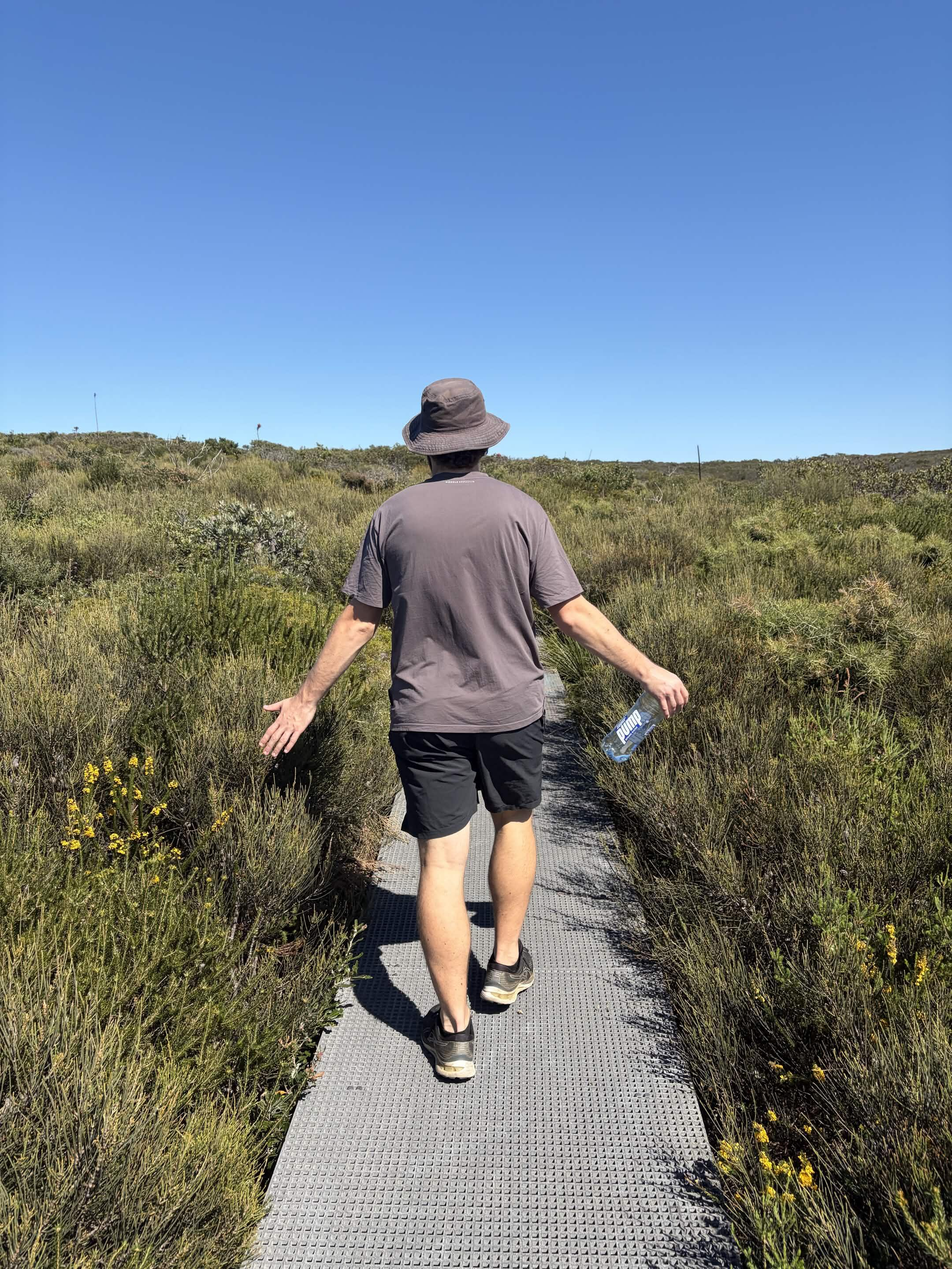
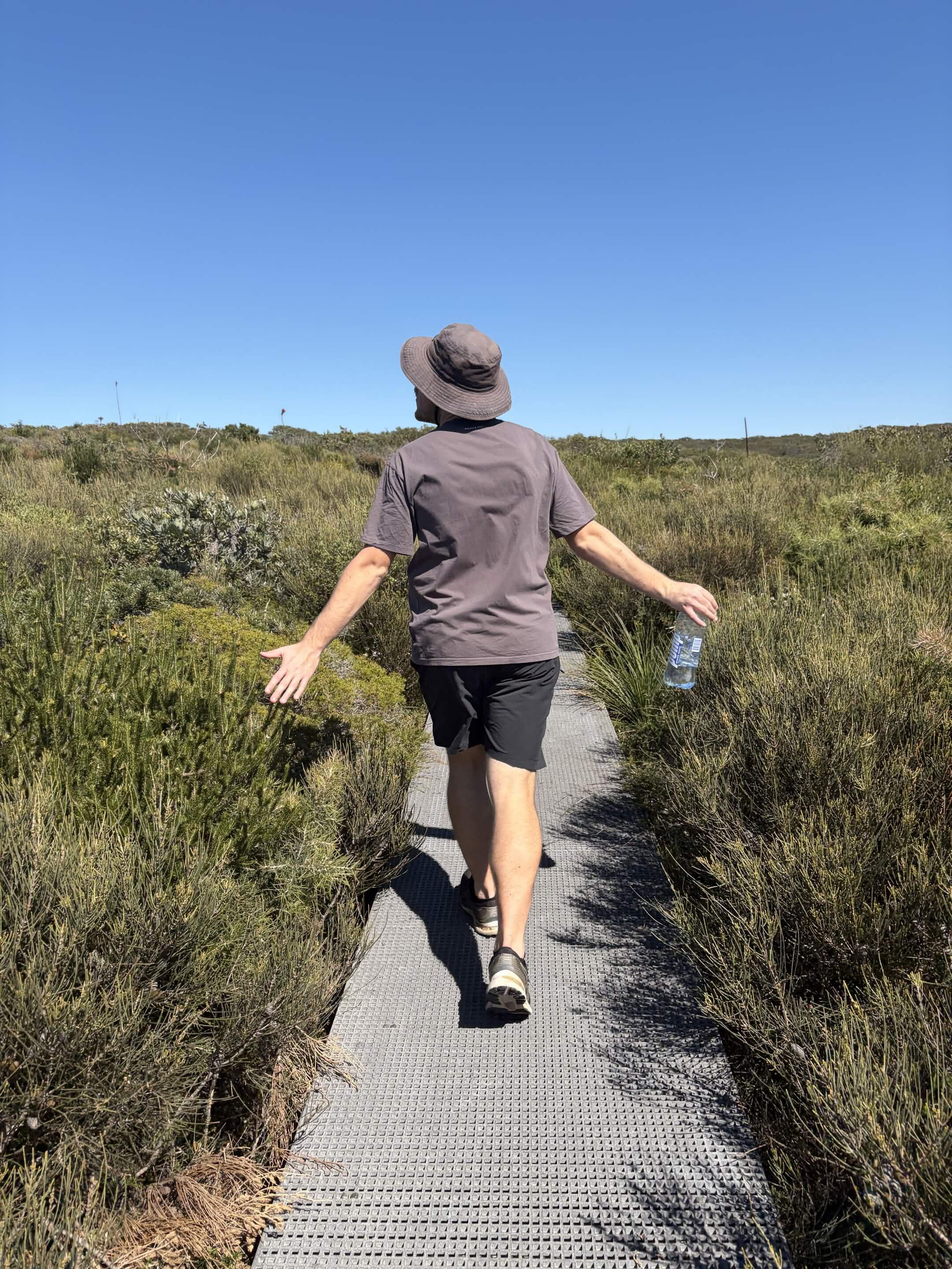
update content, support portait images in project

diff --git a/src/content/blog/2026-curra-moors-track.md b/src/content/blog/2026-curra-moors-track.md
@@ -4,4 +4,16 @@ description: "11km big walk"
 date: "20 Sep 2026"
 thumbnail: "./images/2026-curra-moors-track/image4.jpg"
 tags: ["walk", "outdoors", "sport"]
+links: ["https://www.nationalparks.nsw.gov.au/things-to-do/walking-tracks/curra-moors-loop-track"]
+gallery: [
+    "images/2026-curra-moors-track/image1.jpg",
+    "images/2026-curra-moors-track/image2.jpg",
+    "images/2026-curra-moors-track/image3.jpg",
+    "images/2026-curra-moors-track/image4.jpg",
+    "images/2026-curra-moors-track/image5.jpg",
+    "images/2026-curra-moors-track/image6.jpg",
+    "images/2026-curra-moors-track/image7.jpg",
+    "images/2026-curra-moors-track/image8.jpg",
+    "images/2026-curra-moors-track/image9.jpg",
+]
 ---

diff --git a/src/content/blog/2026-grand-canyon-track.md b/src/content/blog/2026-grand-canyon-track.md
@@ -4,4 +4,12 @@ description: "6km big walk"
 date: "30 Aug 2026"
 thumbnail: "./images/2026-grand-canyon-track/thumbnail.jpg"
 tags: ["walk", "outdoors", "sport"]
+links: ["https://www.nationalparks.nsw.gov.au/things-to-do/walking-tracks/grand-canyon-track"]
+gallery: [
+    "images/2026-grand-canyon-track/image1.jpg",
+    "images/2026-grand-canyon-track/image2.jpg",
+    "images/2026-grand-canyon-track/image3.jpg",
+    "images/2026-grand-canyon-track/image4.jpg",
+    "images/2026-grand-canyon-track/image5.jpg",
+]
 ---

diff --git a/src/content/blog/2026-city2surf.md b/src/content/blog/2026-city2surf.md
@@ -4,4 +4,13 @@ description: "My running debut 15km + heartbreak hill"
 date: "9 Aug 2026"
 thumbnail: "./images/2026-city2surf/thumbnail.jpg"
 tags: ["running", "event", "sport"]
+links: ["https://city2surf.com.au/"]
+gallery: [
+    "images/2026-city2surf/img1.jpg",
+    "images/2026-city2surf/img2.jpg",
+    "images/2026-city2surf/img3.jpg",
+    "images/2026-city2surf/img4.jpg",
+    "images/2026-city2surf/img5.jpg",
+    "images/2026-city2surf/img6.jpg",
+]
 ---

diff --git a/src/content/blog/2026-drift-school.md b/src/content/blog/2026-drift-school.md
@@ -4,4 +4,5 @@ description: "Went drifting with my sister"
 date: "4 Jul 2026"
 thumbnail: "./images/2026-drift-school/thumbnail.jpg"
 tags: ["motorsport", "cars", "event"]
+links: ["https://driftschoolaustralia.com.au/"]
 ---
